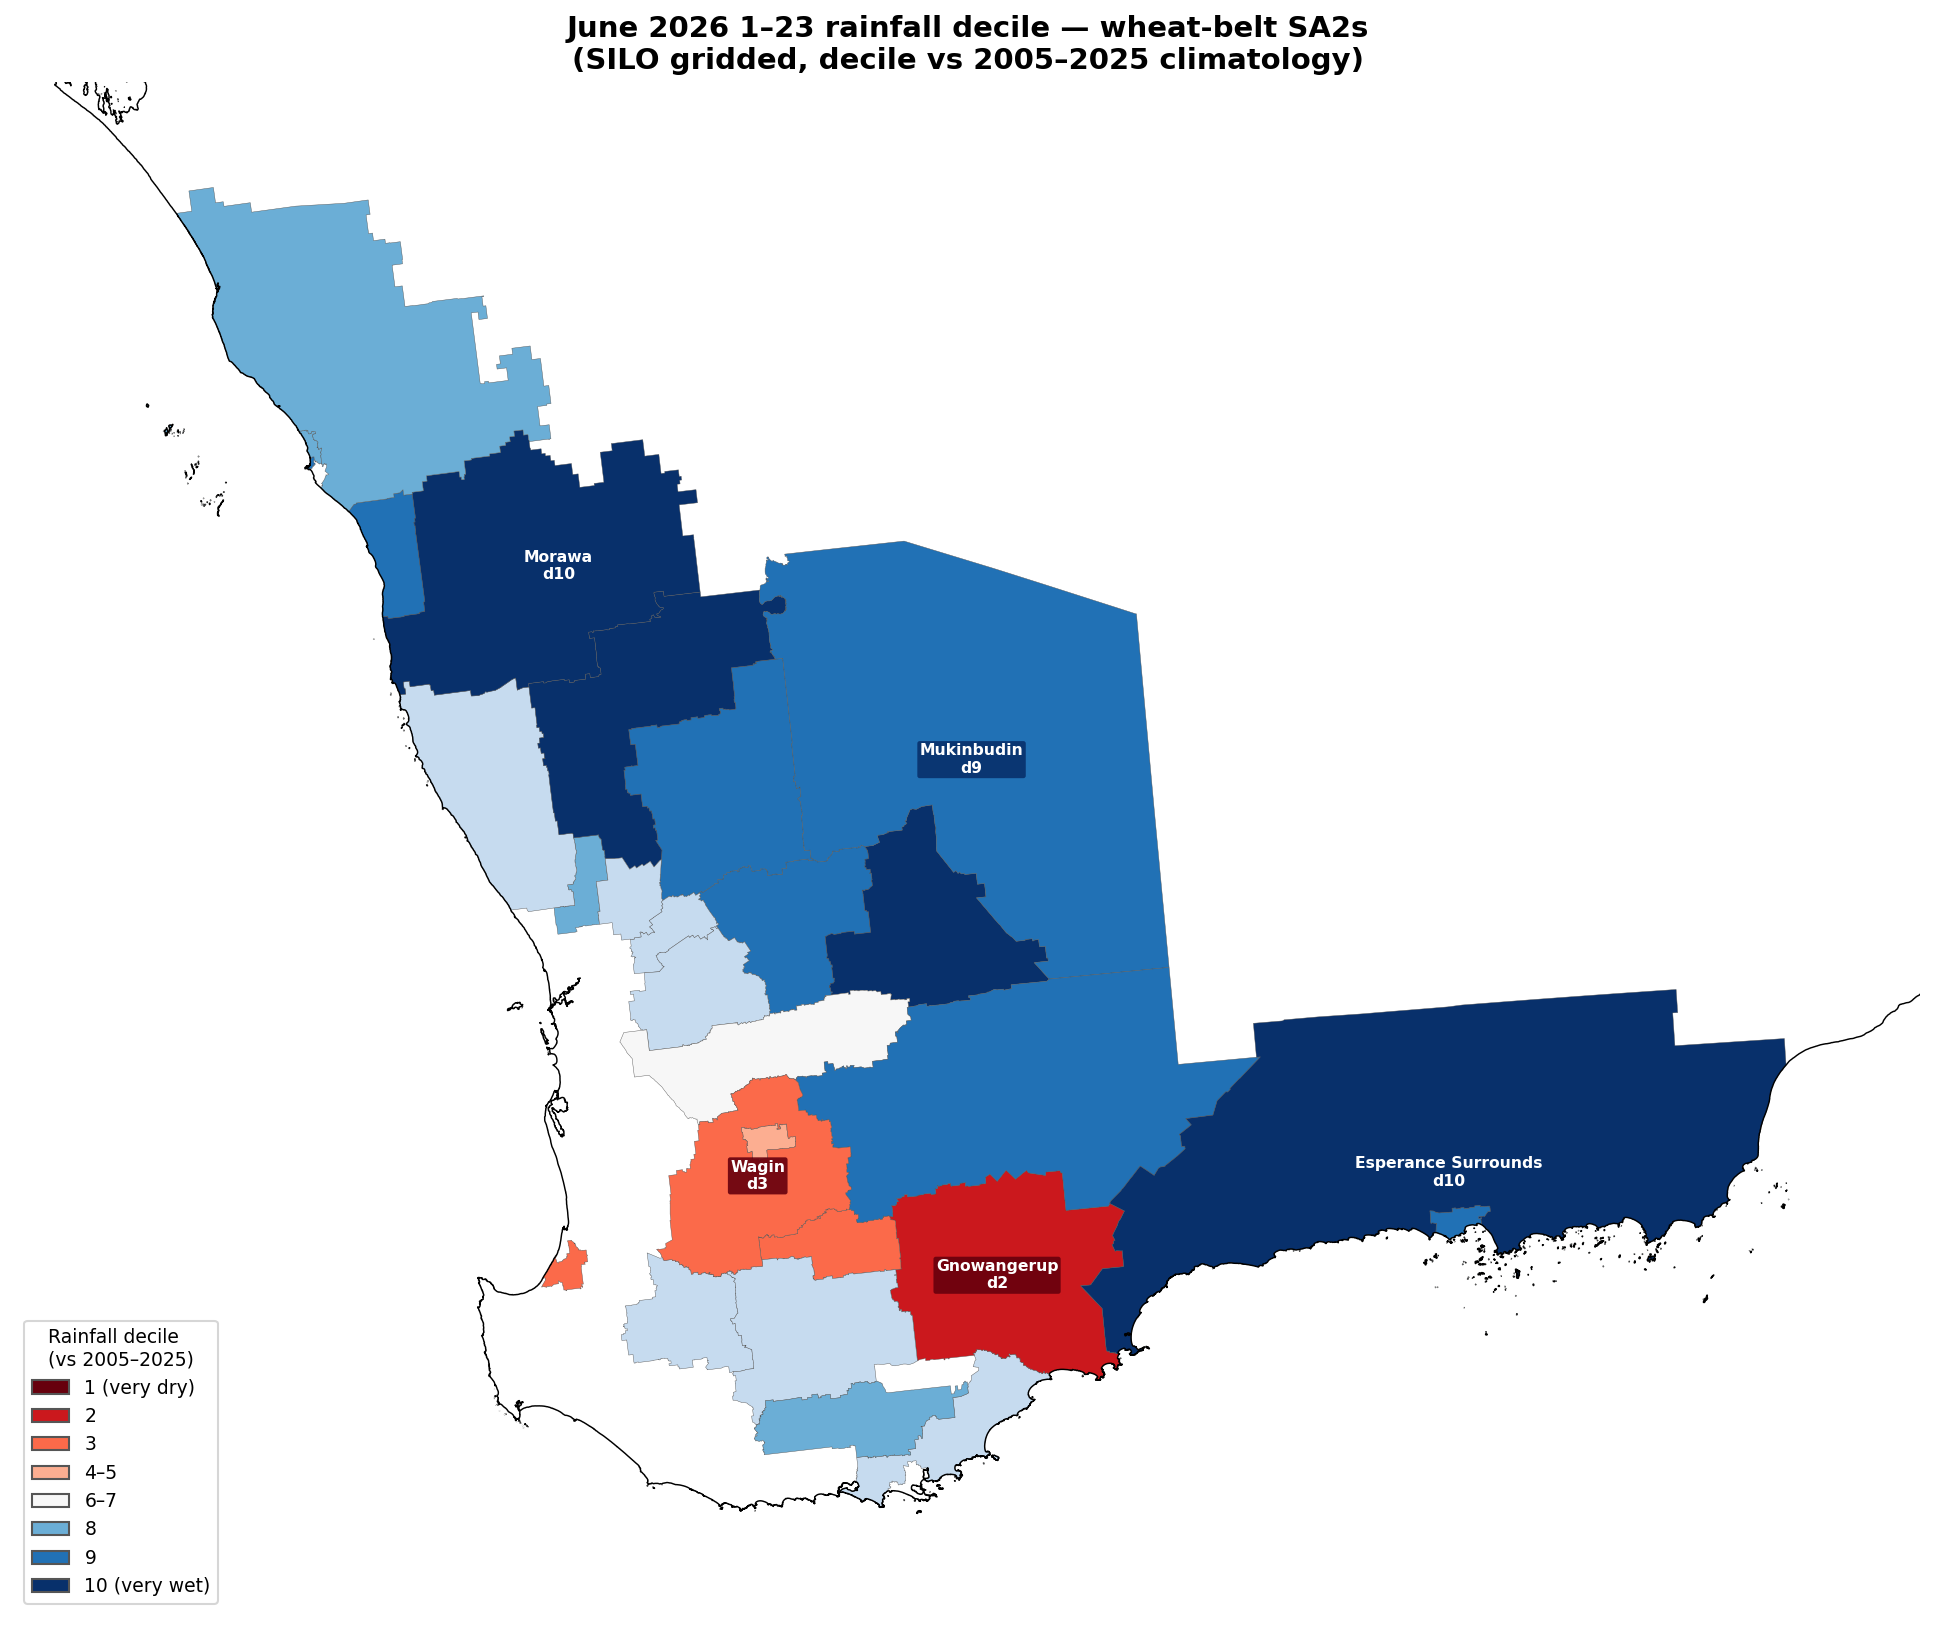
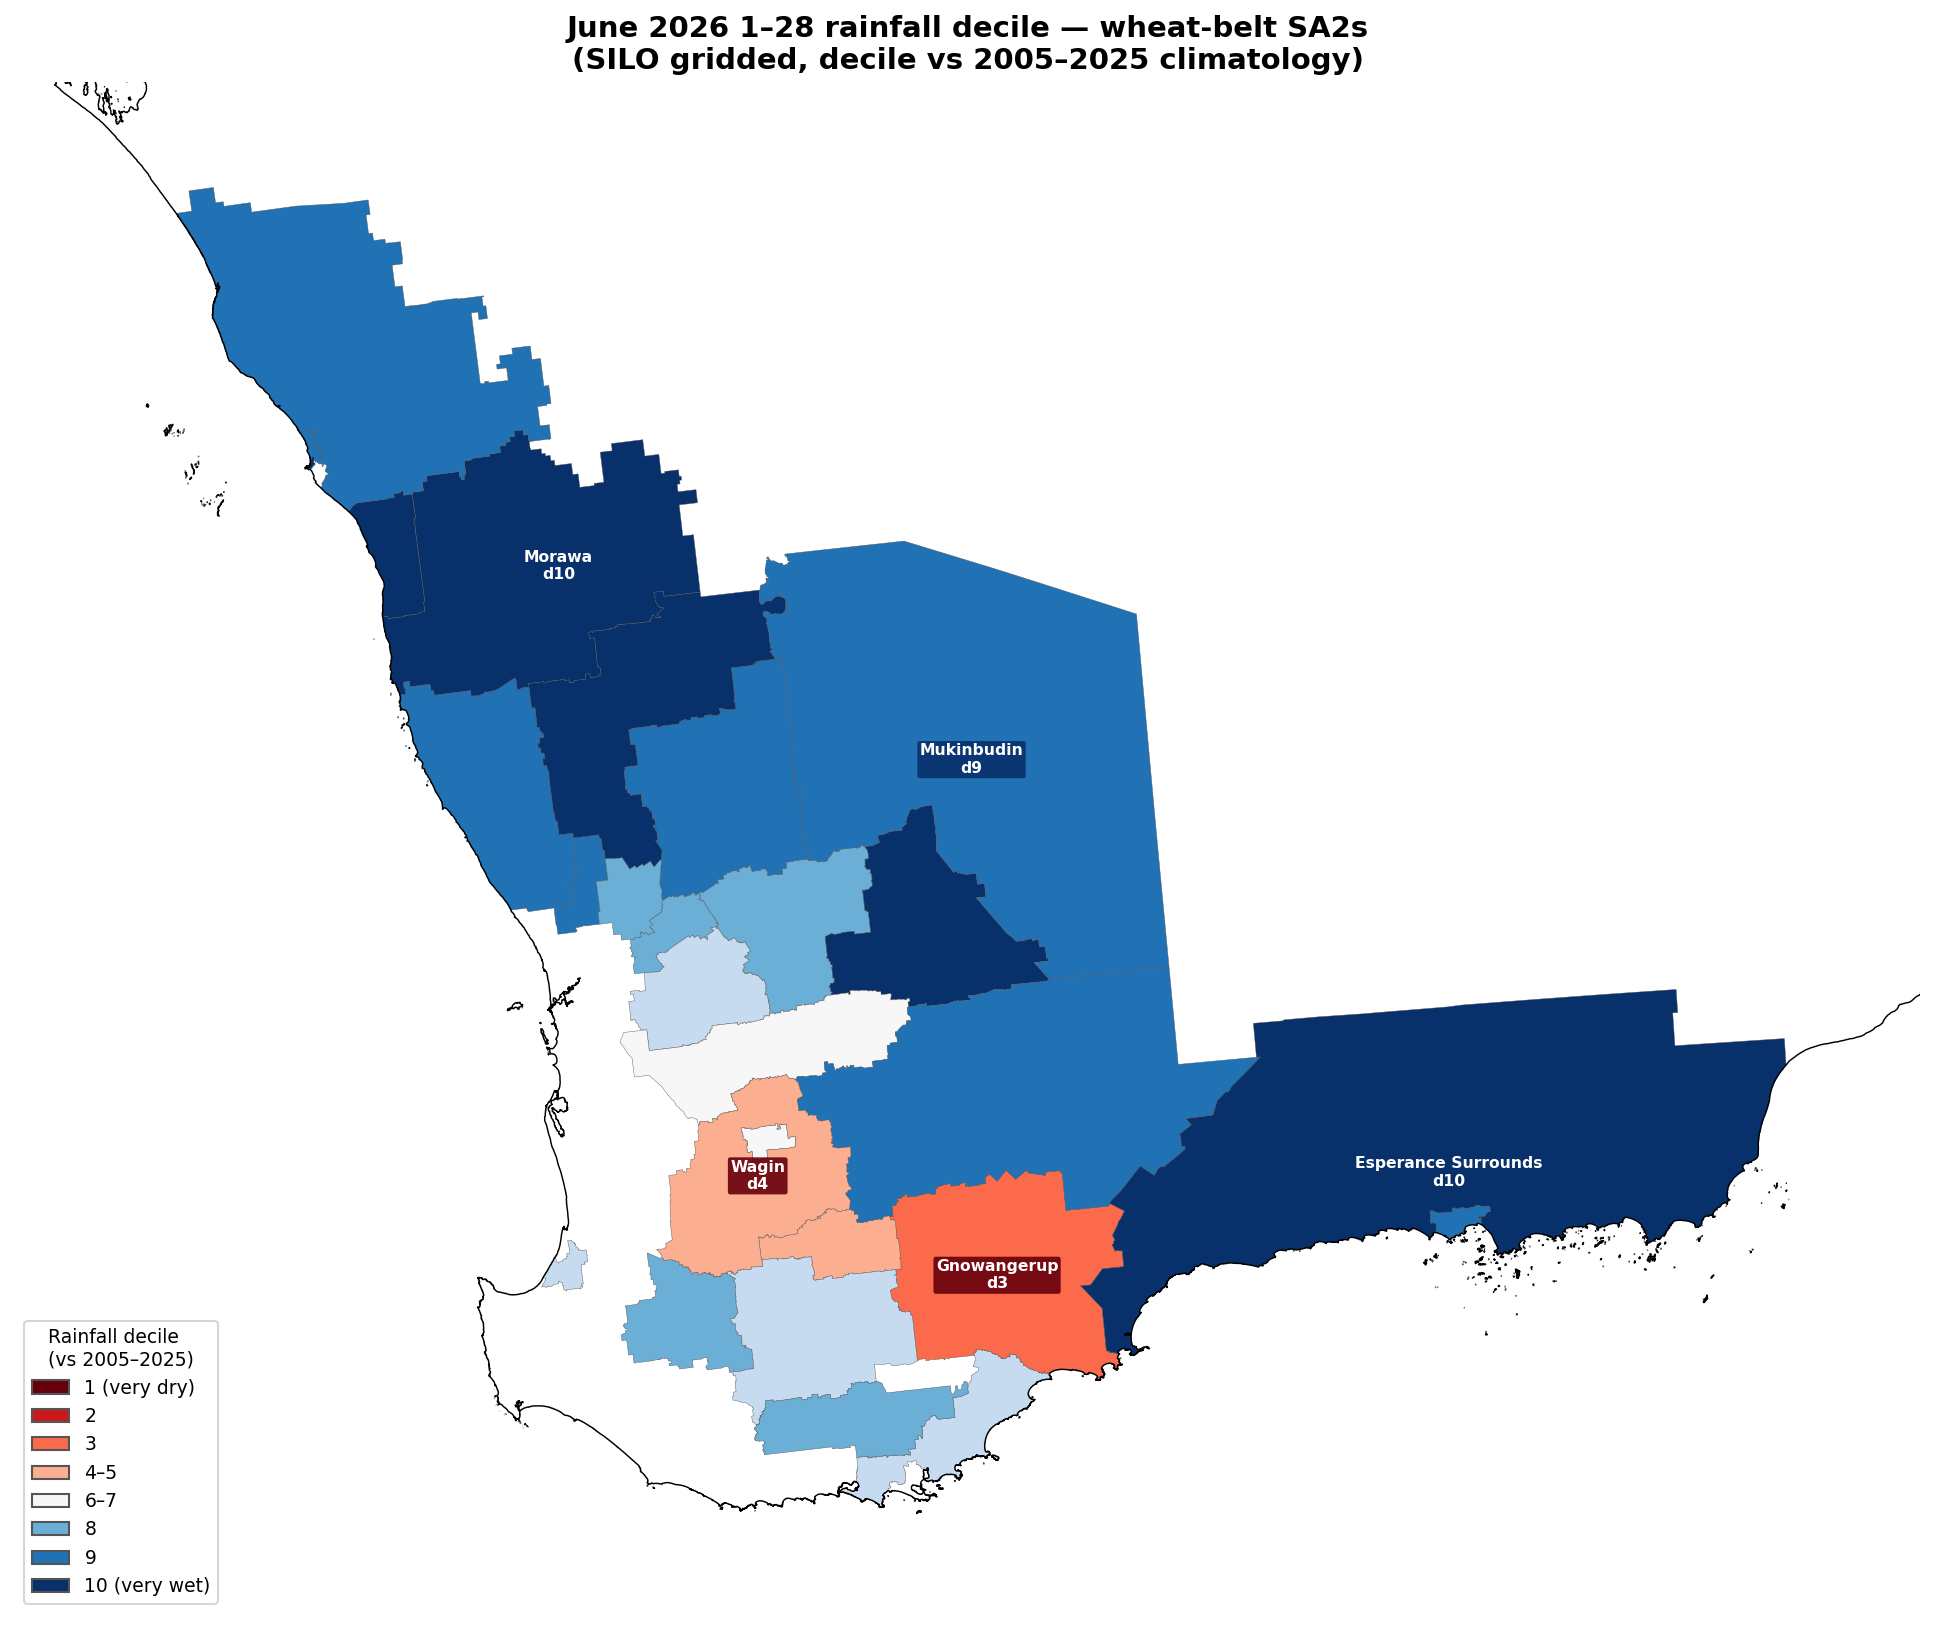
feat(maps): --label-below callout labels + --review-tag for crop-weighted maps
--label-below DECILE annotates each cropping SA2 below the threshold in the
left margin (over ocean) with a leader arrow — Rod's preferred callout style
over inline labels. --review-tag SUFFIX points the SA2/SD review reads (and
the output PNG name) at a tagged review, e.g. '_cropwtd' to drive the map and
its below-average labels from the crop-weighted basis without clobbering the
centroid figure. Refresh WA June 2026 gridded figures incl. the crop-weighted
variant (labels only Katanning d3.3 — Gnowangerup/Wagin clear the bar on a
crop basis).

Claude-Session: https://claude.ai/code/session_018p4YYFswgXoDPvUFwh63qC

Changed region(s): [[0.2791, 0.645, 0.5891, 0.86], [0.093, 0.1229, 0.2791, 0.3993], [0.186, 0.3993, 0.4651, 0.6143]]

diff --git a/scripts/plot_decile_grid_bom.py b/scripts/plot_decile_grid_bom.py
@@ -132,6 +132,16 @@ def main():
                     help="close radius (degrees) for the cropping outline; bridges "
                          "gaps between scattered patches into a broad region "
                          "(default 0.25 ≈ 28 km)")
+    ap.add_argument("--label-below", type=float, default=None, metavar="DECILE",
+                    help="annotate each cropping SA2 whose decile is below this "
+                         "threshold with its name (e.g. 4 labels below-average "
+                         "SA2s). Requires --overlay sa2 or both")
+    ap.add_argument("--review-tag", default="", metavar="SUFFIX",
+                    help="suffix inserted before .csv in the SA2/SD rainfall "
+                         "review filenames read for SA2 deciles, labels and SD "
+                         "selection (e.g. '_cropwtd' drives the map from the "
+                         "crop-weighted review). Also appended to the output PNG "
+                         "name so it doesn't clobber the centroid figure")
     args = ap.parse_args()
 
     lon0, lon1, lat0, lat1 = BOX[args.state]
@@ -231,8 +241,11 @@ def main():
           & ~g.geometry.is_empty].to_crs(4326)
     state_geom = g.dissolve("STE_NAME21").geometry.iloc[0]
     review = (ROOT / f"data/features/"
-              f"sa2_{args.year}_{args.month:02d}_rainfall_review.csv")
-    crop_codes = set(pd.read_csv(review)["sa2_code"].astype(str))
+              f"sa2_{args.year}_{args.month:02d}_rainfall_review"
+              f"{args.review_tag}.csv")
+    review_df = pd.read_csv(review)
+    review_df["sa2_code"] = review_df["sa2_code"].astype(str)
+    crop_codes = set(review_df["sa2_code"])
     sa2_crop = g[g["SA2_CODE21"].isin(crop_codes)]
 
     # SD polygons: assign each SA2 to its dominant SD, dissolve, keep the
@@ -247,7 +260,8 @@ def main():
                          on="SA2_CODE21")
         sd_all = merged.dissolve("SD_CODE11", aggfunc={"SD_NAME11": "first"})
         sdr = pd.read_csv(ROOT / f"data/features/"
-                          f"sd_{args.year}_{args.month:02d}_rainfall_review.csv")
+                          f"sd_{args.year}_{args.month:02d}_rainfall_review"
+                          f"{args.review_tag}.csv")
         crop_sd = set(sdr[sdr["state"] == ABBR[args.state]]["sd_code"].astype(int))
         sd_crop = sd_all[sd_all.index.isin(crop_sd)]
 
@@ -282,6 +296,35 @@ def main():
     if args.overlay in ("sa2", "both"):
         cut(sa2_crop.geometry).boundary.plot(ax=ax, color="#1a1a1a",
                                              linewidth=0.4, alpha=0.6)
+        if args.label_below is not None:
+            dec_by_code = dict(zip(review_df["sa2_code"],
+                                   review_df["decile_decimal"]))
+            name_by_code = dict(zip(review_df["sa2_code"],
+                                    review_df["sa2_name"]))
+            below = []
+            for _, r in sa2_crop.iterrows():
+                code = r["SA2_CODE21"]
+                if dec_by_code.get(code, 99) < args.label_below:
+                    p = r.geometry.representative_point()
+                    below.append((name_by_code.get(code, code),
+                                  dec_by_code.get(code), p.y, p.x))
+            # Callout style: stack labels down the left margin (over ocean),
+            # ordered north→south so leader arrows don't cross, each arrow
+            # pointing to its SA2 centroid.
+            below.sort(key=lambda t: t[2], reverse=True)
+            y0, dy = 0.30, 0.06
+            for i, (name, dec, plat, plon) in enumerate(below):
+                ax.annotate(
+                    f"{name} (d{dec:.1f})",
+                    xy=(plon, plat), xycoords="data",
+                    xytext=(0.02, y0 - i * dy), textcoords="axes fraction",
+                    fontsize=7.5, ha="left", va="center", weight="bold",
+                    color="#7a0000",
+                    bbox=dict(boxstyle="round,pad=0.2", fc="white",
+                              ec="#c0392b", alpha=0.95),
+                    arrowprops=dict(arrowstyle="->", color="#7a0000", lw=0.9,
+                                    shrinkB=3,
+                                    connectionstyle="arc3,rad=0.15"))
     if args.overlay in ("sd", "both") and sd_crop is not None:
         cut(sd_crop.geometry).boundary.plot(ax=ax, color="#000000", linewidth=1.1)
         for _, r in sd_crop.iterrows():
@@ -331,6 +374,7 @@ def main():
     if args.crop_mask is not None:
         tag += ("statewide" if args.field == "statewide" else "") \
             + f"_crop{int(args.crop_mask*100):02d}"
+    tag += args.review_tag
     out = (ROOT / f"reports/figures/decile_grid_bom_"
            f"{''.join(w[0] for w in args.state.split())}_"
            f"{args.year}_{args.month:02d}{tag}.png")